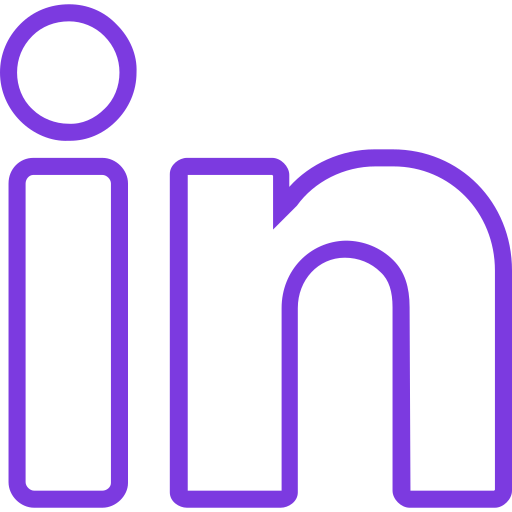
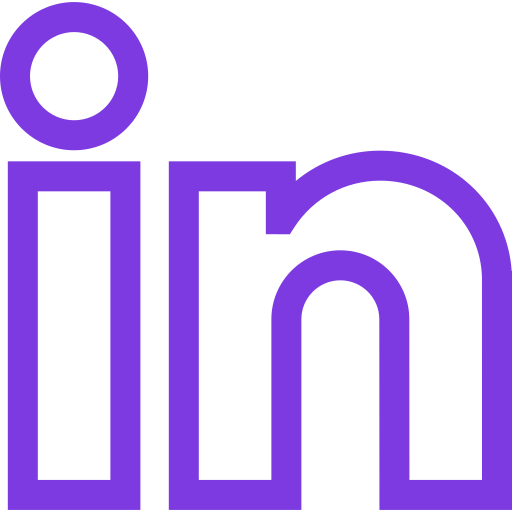
refactor- footer refined

Changed region(s): [[0.3125, 0.2812, 1.0, 1.0], [0.0, 0.0, 0.3125, 1.0], [0.2188, 0.0312, 0.25, 0.0625]]

diff --git a/isTriangle/triangle.html b/isTriangle/triangle.html
@@ -29,6 +29,7 @@
         <li>
           <a href="https://github.com/BijendraRaut"
             ><img
+              class="footer-icon"
               src="https://build-learn-triangles.netlify.app/images/github.svg
             "
           /></a>
@@ -36,12 +37,13 @@
         <li>
           <a href="https://twitter.com/Guru_David_"
             ><img
+              class="footer-icon"
               src="https://build-learn-triangles.netlify.app/images/twitter.svg"
           /></a>
         </li>
         <li>
           <a href="https://www.linkedin.com/in/bijendra-raut267"
-            ><img src="/images/linkedin.png"
+            ><img class="footer-icon" src="/images/linkedin.png"
           /></a>
         </li>
       </ul>
